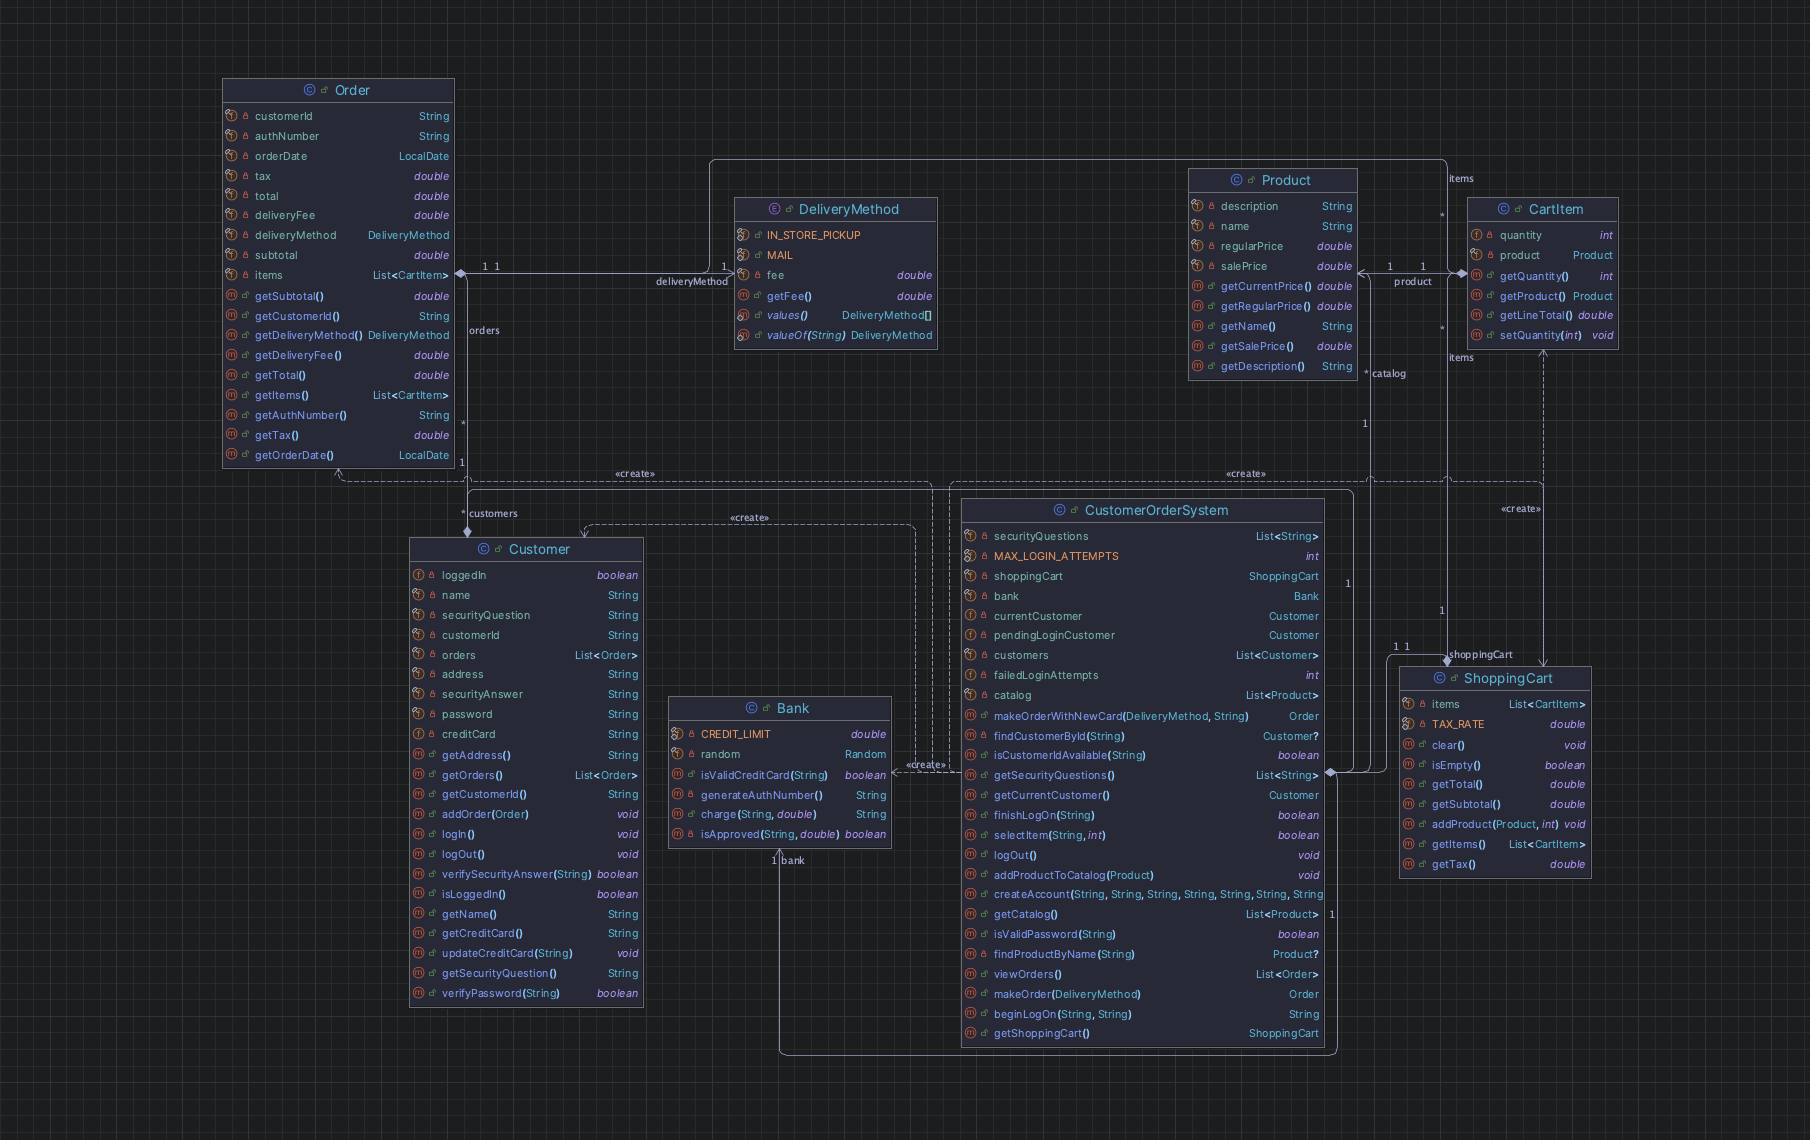
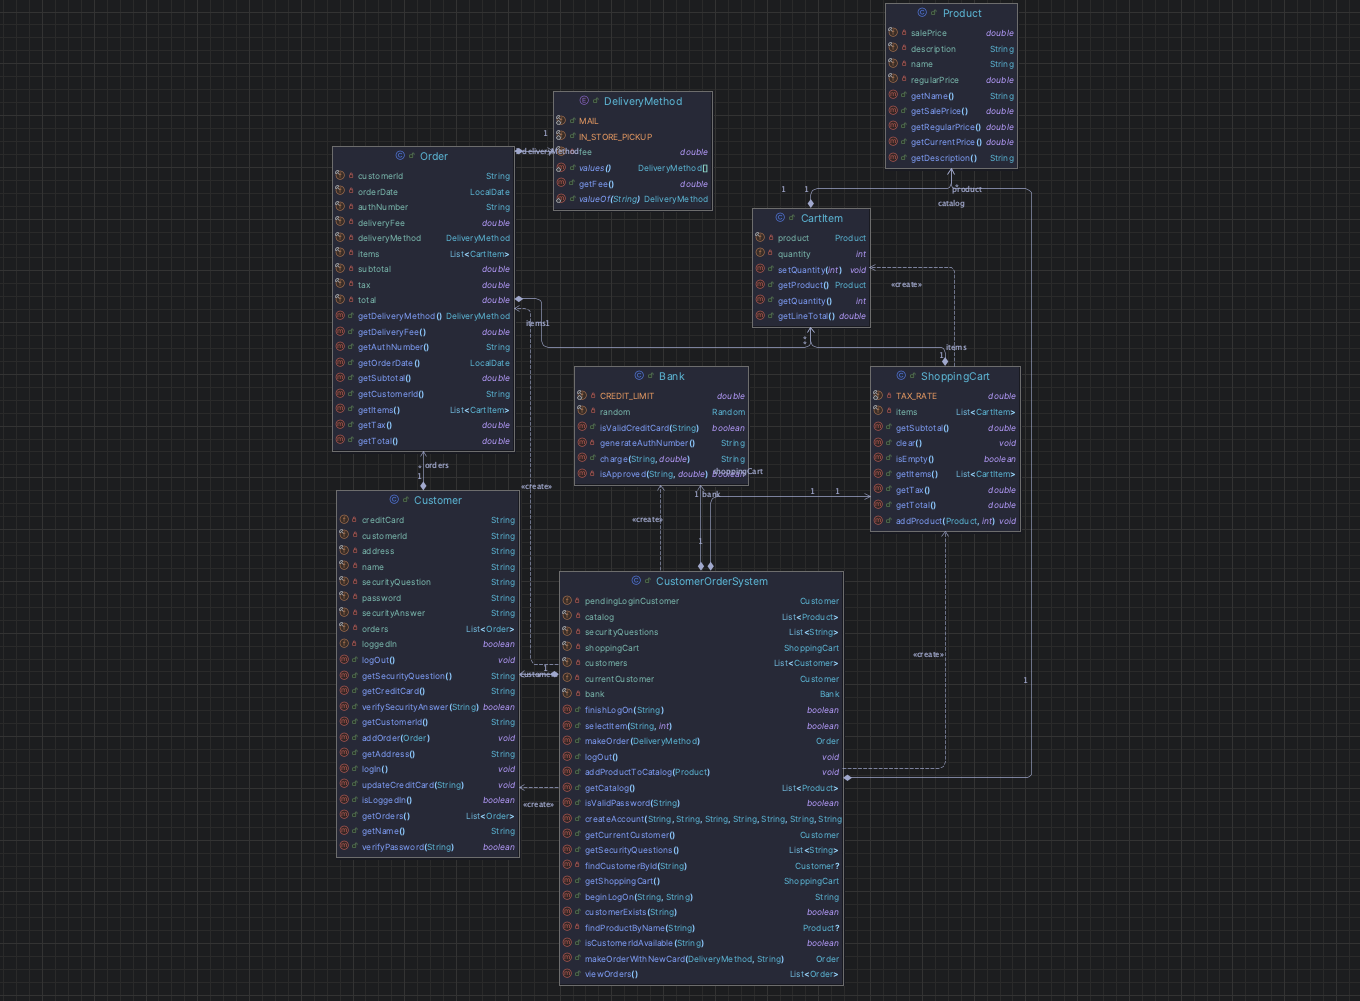
Part 2 Finished, full main program

Changed region(s): [[0.1235, 0.0, 0.8956, 0.991], [0.8338, 0.4336, 0.8647, 0.4645]]

diff --git a/src/main/java/jackson/customerordersystem/Main.java b/src/main/java/jackson/customerordersystem/Main.java
@@ -3,7 +3,13 @@ package jackson.customerordersystem;
 import java.util.List;
 import java.util.Scanner;
 
+/** console application for customer order system */
 public class Main {
+  /**
+   * starts the program and displays the main menu
+   *
+   * @param args command line arguments
+   */
   public static void main(String[] args) {
     Scanner input = new Scanner(System.in);
     CustomerOrderSystem system = new CustomerOrderSystem();
@@ -47,6 +53,11 @@ public class Main {
     }
   }
 
+  /**
+   * adds products to the catalog
+   *
+   * @param system customer order system
+   */
   private static void seedCatalog(CustomerOrderSystem system) {
     system.addProductToCatalog(new Product("CPU", "8-core processor", 329.99, 299.99));
     system.addProductToCatalog(new Product("GPU", "12GB graphics card", 699.99, 649.99));
@@ -60,6 +71,11 @@ public class Main {
     system.addProductToCatalog(new Product("CPU Cooler", "Tower air cooler", 59.99, 49.99));
   }
 
+  /**
+   * displays the main menu
+   *
+   * @param system customer order system
+   */
   private static void showMenu(CustomerOrderSystem system) {
     System.out.println();
     System.out.println("--- Customer Order System ---");
@@ -82,6 +98,12 @@ public class Main {
     System.out.print("Enter choice: ");
   }
 
+  /**
+   * creates a new customer account
+   *
+   * @param input scanner for input
+   * @param system customer order system
+   */
   private static void createAccount(Scanner input, CustomerOrderSystem system) {
     System.out.println();
     System.out.println("--- Create Account ---");
@@ -119,6 +141,8 @@ public class Main {
       System.out.println("Credit card number must be exactly 16 digits.");
     }
 
+    System.out.println("Account created successfully.");
+
     List<String> securityQuestions = system.getSecurityQuestions();
     System.out.println("Select a security question:");
     for (int i = 0; i < securityQuestions.size(); i++) {
@@ -142,13 +166,17 @@ public class Main {
         system.createAccount(
             customerId, password, name, address, creditCard, securityQuestion, securityAnswer);
 
-    if (created) {
-      System.out.println("Account created successfully.");
-    } else {
+    if (!created) {
       System.out.println("Account could not be created.");
     }
   }
 
+  /**
+   * logs in a customer
+   *
+   * @param input scanner for input
+   * @param system customer order system
+   */
   private static void logOn(Scanner input, CustomerOrderSystem system) {
     System.out.println();
     System.out.println("--- Log On ---");
@@ -157,17 +185,15 @@ public class Main {
       System.out.println("A customer is already logged in.");
       return;
     }
-
-    String customerId = readNonBlank(input, "Enter customer Id: ");
-
-    if (!system.customerExists(customerId)) {
-      System.out.println("No account found.");
-      return;
-    }
-
     String securityQuestion = null;
 
     for (int attempts = 1; attempts <= 3; attempts++) {
+      String customerId = readNonBlank(input, "Enter customer ID: ");
+
+      if (!system.customerExists(customerId)) {
+        System.out.println("No account found.");
+        return;
+      }
       String password = readNonBlank(input, "Enter password: ");
       securityQuestion = system.beginLogOn(customerId, password);
 
@@ -187,7 +213,7 @@ public class Main {
       return;
     }
 
-    System.out.println("Security Question: " + securityQuestion);
+    System.out.println("Security question: " + securityQuestion);
     String securityAnswer = readNonBlank(input, "Enter security answer: ");
 
     if (system.finishLogOn(securityAnswer)) {
@@ -197,6 +223,11 @@ public class Main {
     }
   }
 
+  /**
+   * logs out current customer
+   *
+   * @param system customer order system
+   */
   private static void logOut(CustomerOrderSystem system) {
     System.out.println();
     System.out.println("--- Log Out ---");
@@ -210,6 +241,12 @@ public class Main {
     System.out.println("Logged out successfully.");
   }
 
+  /**
+   * displays catalog and customer can select items
+   *
+   * @param input scanner for input
+   * @param system customer order system
+   */
   private static void browseAndSelectItems(Scanner input, CustomerOrderSystem system) {
     System.out.println();
     System.out.println("--- Product Catalog ---");
@@ -273,11 +310,18 @@ public class Main {
 
       if (!answer.equalsIgnoreCase("yes")) {
         selecting = false;
+      } else {
+        System.out.println();
       }
     }
     showCart(system);
   }
 
+  /**
+   * displays what is in shopping cart if anything
+   *
+   * @param system customer order system
+   */
   private static void showCart(CustomerOrderSystem system) {
     System.out.println();
     System.out.println("--- Shopping Cart ---");
@@ -295,11 +339,18 @@ public class Main {
           item.getProduct().getName(), item.getQuantity(), item.getLineTotal());
     }
 
+    System.out.println();
     System.out.printf("Subtotal: $%.2f%n", cart.getSubtotal());
     System.out.printf("Tax: $%.2f%n", cart.getTax());
     System.out.printf("Total: $%.2f%n", cart.getTotal());
   }
 
+  /**
+   * places an order for the current customer
+   *
+   * @param input scanner for input
+   * @param system customer order system
+   */
   private static void makeOrder(Scanner input, CustomerOrderSystem system) {
     System.out.println();
     System.out.println("--- Make Order ---");
@@ -316,6 +367,7 @@ public class Main {
 
     showCart(system);
 
+    System.out.println();
     System.out.println("Select delivery method: ");
     System.out.println("1. Mail ($3.00 fee)");
     System.out.println("2. In store pickup (free)");
@@ -357,7 +409,7 @@ public class Main {
       String newCard = input.nextLine().trim();
 
       if (newCard.equals("0")) {
-        System.out.println("Order Cancelled.");
+        System.out.println("Order cancelled.");
         return;
       }
 
@@ -377,6 +429,11 @@ public class Main {
     }
   }
 
+  /**
+   * displays current customer orders
+   *
+   * @param system customer order system
+   */
   private static void viewOrders(CustomerOrderSystem system) {
     System.out.println();
     System.out.println("--- View Orders ---");
@@ -400,6 +457,11 @@ public class Main {
     }
   }
 
+  /**
+   * prints out details of the order
+   *
+   * @param order order to display
+   */
   private static void printOrder(Order order) {
     System.out.println("Order Date: " + order.getOrderDate());
     System.out.println("Delivery Method: " + order.getDeliveryMethod());
@@ -410,6 +472,7 @@ public class Main {
           item.getProduct().getName(), item.getQuantity(), item.getLineTotal());
     }
 
+    System.out.println();
     System.out.printf("Subtotal: $%.2f%n", order.getSubtotal());
     System.out.printf("Tax: $%.2f%n", order.getTax());
     System.out.printf("Delivery Fee: $%.2f%n", order.getDeliveryFee());
@@ -417,6 +480,12 @@ public class Main {
     System.out.println("Authorization Number: " + order.getAuthNumber());
   }
 
+  /**
+   * helper method to read an int from user input
+   *
+   * @param input scanner for input
+   * @return int entered by customer
+   */
   private static int readInt(Scanner input) {
     while (true) {
       String value = input.nextLine().trim();
@@ -429,6 +498,13 @@ public class Main {
     }
   }
 
+  /**
+   * helper method to read a non blank input from user
+   *
+   * @param prompt message shown to user
+   * @param input scanner for input
+   * @return non blank user input
+   */
   private static String readNonBlank(Scanner input, String prompt) {
     while (true) {
       System.out.print(prompt);

diff --git a/src/main/java/jackson/customerordersystem/CustomerOrderSystem.java b/src/main/java/jackson/customerordersystem/CustomerOrderSystem.java
@@ -62,7 +62,7 @@ public class CustomerOrderSystem {
    * checks if customer id is available
    *
    * @param customerId customer id to check
-   * @reutrn true if customer exists otherwise return false
+   * @return true if customer exists otherwise return false
    */
   public boolean customerExists(String customerId) {
     return findCustomerById(customerId) != null;
@@ -71,6 +71,7 @@ public class CustomerOrderSystem {
   /**
    * checks if a customer id is available
    *
+   * @param customerId customer id
    * @return true if id is available otherwise return false
    */
   public boolean isCustomerIdAvailable(String customerId) {

diff --git a/src/main/java/jackson/customerordersystem/Product.java b/src/main/java/jackson/customerordersystem/Product.java
@@ -34,14 +34,14 @@ public class Product {
   /**
    * returns product description
    *
-   * @return prodcut descritption
+   * @return product description
    */
   public String getDescription() {
     return description;
   }
 
   /**
-   * returns reglar price of the product
+   * returns regular price of the product
    *
    * @return regular price
    */

diff --git a/README.md b/README.md
@@ -1,11 +1,91 @@
+# Project Overview
+
+- This project is a Customer Order System (COS) implemented in java.
+- The program is a console application that lets a customer create an account, log on, log out, browse products from a catalog, select items, place an order, and view previous orders.
+
 # Assumptions
 
-- a fixed sales tax rate of 8.25% is used for all orders
-- a credit card limit of $5000.00
-- a list of three security questions
-- order uses LocalDate to configure the date of the order
+- A fixed sales tax rate of 8.25% is used for all orders
+- A credit card limit of $5000.00
+- A list of three security questions
+- Order uses LocalDate to configure the date of the order
 - $3.00 fee for mailing orders
+- In store pickup is free
+- A valid credit card number must be 16 digits
+- The bank declines cards that end in 0000
+- The product catalog is loaded when the program starts
 
 # UML Diagram
 
 ![setup](assets/UML.png)
+
+# How to Compile and Run
+
+Requirements:
+
+- Java 17
+
+## Terminal
+
+**Compile:**
+javac -d out src/main/java/jackson/customerordersystem/\*.java
+
+**Run:**
+java -cp out jackson.customerordersystem.Main
+
+## Intellij IDEA
+
+- Open the project in IntelliJ IDEA and run:
+  jackson.customerordersystem.Main
+
+# Implemented use cases
+
+- create account
+- log on
+- log out
+- select items
+- make order
+- view order
+
+# Use case summary
+
+## Create Account:
+
+- The customer enters an id, password, name, address, credit card number, security question, and security answer.
+- The system checks for duplicate ids and validates the password and credit card.
+
+## Log On:
+
+- The customer enters an id and password.
+- If the password is correct, the system prompts the security question.
+- If the answer is correct, the customer is logged in.
+
+## Log Out:
+
+- The customer selects log out and the customer will be logged out.
+
+## Select Items:
+
+- The customer browses the catalog and selects one or more items with the quantities of the product.
+- The system adds the products selected to the shopping cart and displays the totals.
+
+## Make Order:
+
+- The customer places an order after logging in and selecting items.
+- The system prompts the customer to choose mail or in store pickup.
+- The system charges the credit card that is stored.
+- If the stored credit card is declined, the customer will be prompted to enter another credit card number or they can exit.
+- If the charge is approved, the order is stored and confirmed.
+
+## View Order:
+
+- The customer can view all saved orders after logging in.
+- The system shows the order date, products, quantities, totals, delivery fee, and authorization number.
+
+# Part 2 Updates
+
+- Added customerExists(String) method to CustomerOrderSystem to check if a customer ID exists before attempting login.
+- Added addProductToCatalog(Product), getCatalog(), and getShoppingCart() accessors to CustomerOrderSystem for use by the console layer.
+- Added makeOrderWithNewCard(DeliveryMethod, String) to CustomerOrderSystem to handle when the bank declines the card and the customer provides a new one.
+- Removed MAX_LOGIN_ATTEMPTS and failedLoginAttempts from CustomerOrderSystem, login attempt tracking is now in Main.java.
+- The UML reflects these changes.
